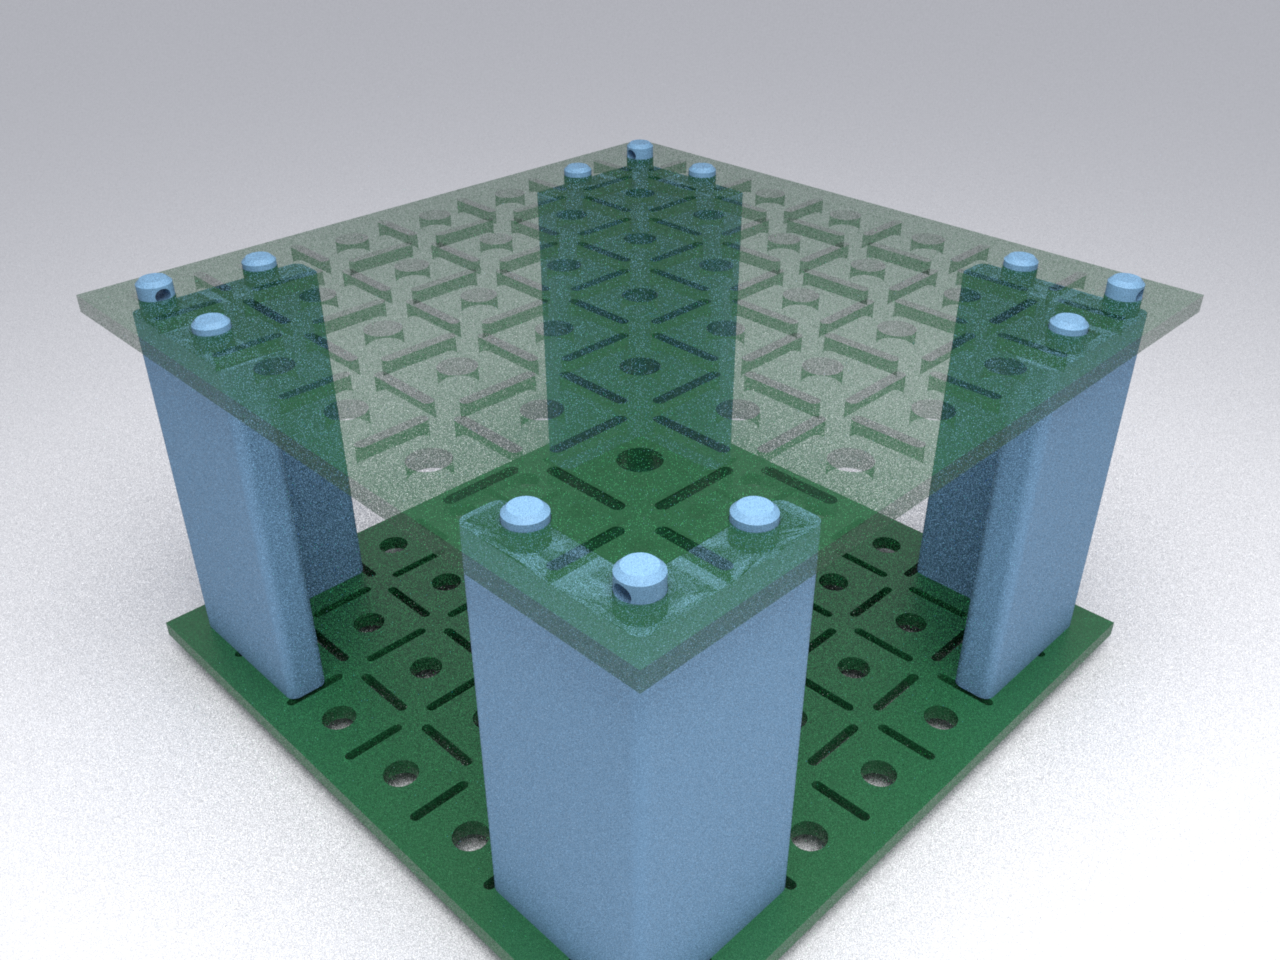
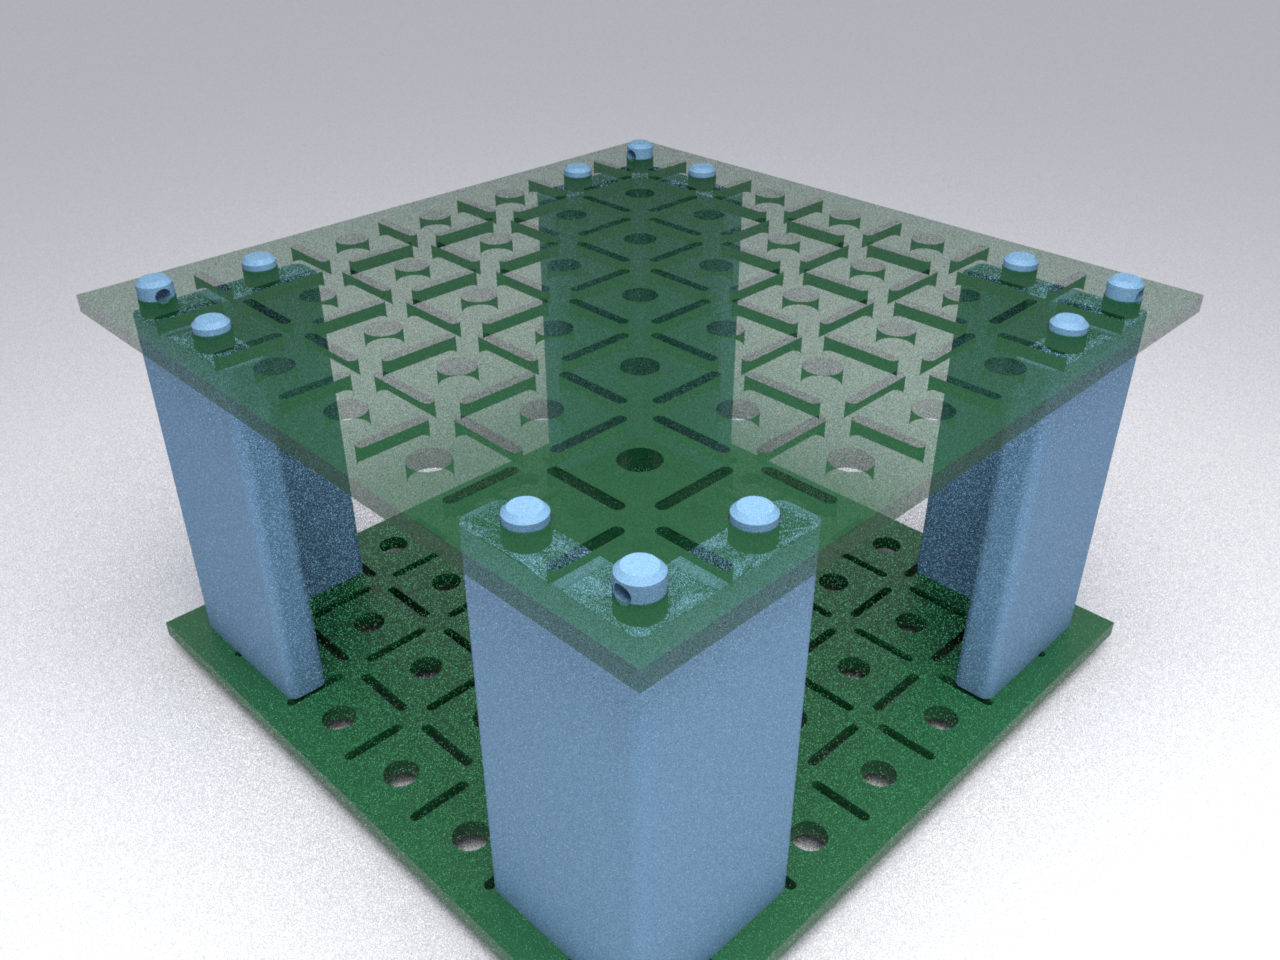
Stop the progress passes from cancelling out the LLVM speedup
Installing LLVM made rendering no faster, and with the default settings
slightly slower. Two causes, measured on the 70x70 assembly at 64 spp,
1280x960:

- The JIT variants pay a fixed cost per kernel launch, which the scalar
  variant does not. Splitting the budget into eight passes for progress
  reporting cost llvm_ad_rgb a full second (8.37 s in one pass, 9.36 s in
  eight) while costing scalar_rgb nothing, which was enough to put LLVM
  behind. 1, 2 and 4 passes all land within 0.15 s of each other, so passes
  are now sized to a 16-sample floor with a cap of 8: 64 spp becomes 4x16
  instead of 8x8, and large budgets still get eight updates.

- max_depth was 8, which nothing in this scene needs. There is no glass or
  metal, so light has nothing left to do after a few diffuse bounces.
  max_depth 5 with rr_depth 3 renders 23% faster (6.57 s against 8.57 s) for
  a 0.02% difference in mean radiance. Depth 3 starts to show (0.8% of the
  energy lost) and depth 2 clearly does (6.7%), so 5 is where it stops being
  free.

End to end at the default 64 samples: 9.2 s scalar, 7.0 s LLVM, against
about 10 s either way before.

Also corrects the README, which sold LLVM as "the fast CPU path" without a
number. It is worth about 25% here, not a multiple: path tracing is
branch-heavy and incoherent, close to the worst case for SIMD.

Checked and rejected as causes: mi.render()'s autodiff wrapper is not the
[…]

Changed region(s): [[0.0938, 0.1562, 0.9062, 0.7188], [0.3438, 0.5312, 0.6562, 0.6562], [0.6562, 0.625, 0.6875, 0.6562]]

diff --git a/render.py b/render.py
@@ -30,8 +30,32 @@ GROUND_GREY = (0.780, 0.780, 0.800)
 ROUGHNESS = {"plate": 0.18, "pillar": 0.42}  # plates have solder-mask sheen, prints are matte
 
 MAX_WIDTH = 1600      # render resolution cap; the overlay is stretched to the viewport
-DEFAULT_SPP = 64      # with the denoiser on, this is already clean; ~10 s at the cap
+DEFAULT_SPP = 64      # with the denoiser on, this is already clean
 MIN_SPP, MAX_SPP = 8, 512
+
+# Path length. Measured on the 70x70 assembly at 64 spp: max_depth 8 took
+# 8.57 s, max_depth 5 took 6.57 s, and the two images differ by 0.02% in mean
+# radiance, which is nothing. There is no glass or metal in this scene, so
+# light has nothing to do after a few diffuse bounces and paying for eight is
+# pure waste. Below 5 it does start to show: depth 3 loses 0.8% of the energy
+# and depth 2 loses 6.7%, visibly flattening the shadowed slots.
+MAX_DEPTH = 5
+RR_DEPTH = 3
+
+# Per-pass launch overhead, so that progress reporting does not cost real
+# time. Also measured: at 64 spp, 1/2/4 passes all land within 0.15 s of each
+# other, but 8 passes costs a full second. The JIT variants pay a fixed cost
+# per kernel launch, so passes have to be big enough to be worth starting.
+MIN_PASS_SPP = 16
+MAX_PASSES = 8
+
+
+def pass_plan(spp):
+    """(chunk_spp, n_passes) for a sample budget: as many progress updates as
+    can be had without the launch overhead becoming measurable."""
+    chunk = max(MIN_PASS_SPP, -(-spp // MAX_PASSES))
+    chunk = min(chunk, spp)
+    return chunk, -(-spp // chunk)
 
 
 def _hint_llvm():
@@ -114,7 +138,7 @@ def _scene_dict(mi, parts, cam, width, height, lo, hi):
 
     scene = {
         "type": "scene",
-        "integrator": {"type": "path", "max_depth": 8},
+        "integrator": {"type": "path", "max_depth": MAX_DEPTH, "rr_depth": RR_DEPTH},
         "sensor": {
             "type": "perspective",
             "fov": float(fov_vertical_deg),

diff --git a/viewer.py b/viewer.py
@@ -148,7 +148,6 @@ def mesh_arrays(manifold):
 
 
 RENDER_OVERLAY = "pretty render"
-RENDER_PASSES = 8   # chunks the sample budget is split into, for progress
 
 # active: an overlay image is up. cam: the camera it was rendered from, so a
 # nudge of the view can invalidate it. armed: the button press that started
@@ -207,7 +206,7 @@ def _render_worker(surfaces, cam, aspect, width, spp):
     """Accumulate `spp` samples in chunks, publishing after each one."""
     try:
         scene, _ = rpt.make_scene(surfaces, cam, aspect, width)
-        chunk_spp = max(4, spp // RENDER_PASSES)
+        chunk_spp, _ = rpt.pass_plan(spp)
         weighted = None
         done = 0
         index = 0

diff --git a/README.md b/README.md
@@ -140,14 +140,14 @@ uv run viewer.py
 ```
 
 Optional, and only if you plan to use the **Render** button: installing LLVM lets mitsuba use its
-vectorised CPU backend instead of the scalar one.
+vectorised CPU backend instead of the scalar one, which is worth about 25% off render time.
 
 ```
 winget install LLVM.LLVM
 ```
 
 Nothing to configure after that, and nothing breaks without it. See
-[On GPUs and LLVM](#on-gpus-and-llvm) for why it is not bundled.
+[On GPUs and LLVM](#on-gpus-and-llvm) for why it is not bundled and why the gain is not larger.
 
 That opens the live parameter viewer: drag sliders, watch the assembly rebuild. The board mesh is
 cached on the parameters that affect it, so pillar-only tweaks stay interactive even at 250 x 250 mm.
@@ -182,8 +182,11 @@ elapsed time, and **Cancel render** stops it between passes. Touching the view c
 The **Samples** slider trades time for noise, and **Denoise** runs
 [Open Image Denoise](https://www.openimagedenoise.org/) over the result once the last pass lands.
 The denoiser costs about half a second and is worth roughly an 8x sample budget, which is why the
-default is only 64 samples: on a 16-core CPU that is about 10 seconds for the image above. Turn
-Denoise off and you need ~512 samples for comparable cleanliness, which takes minutes.
+default is only 64 samples. Turn Denoise off and you need ~512 samples for comparable cleanliness,
+which takes minutes.
+
+At 64 samples and 1280x960, the image above takes about **7 s** with LLVM installed and **9 s**
+without, on a 16-core CPU.
 
 ### On GPUs and LLVM
 
@@ -193,12 +196,23 @@ Short version: on this machine, no. Longer version, since it is not obvious:
   Intel GPU backend at all, so an integrated Radeon or Arc cannot be used, and the OptiX denoiser is
   NVIDIA-only for the same reason. The CPU denoiser above is the substitute, and it is a bigger win
   than the GPU would have been for a render this small.
-- **LLVM.** mitsuba's `llvm_ad_rgb` variant vectorises across SIMD lanes and is the fast CPU path,
-  but Dr.Jit loads LLVM at runtime instead of bundling it, and on Windows finds it only via
-  `DRJIT_LIBLLVM_PATH` or the DLL search path. Without it you silently get `scalar_rgb`, which is
-  what the `jitc_llvm_init()` warning on startup is telling you. Note that this is not the same LLVM
-  that numba uses: llvmlite links LLVM statically into its own DLL and does not expose the C API
-  Dr.Jit needs, so having numba working is no help here.
+- **LLVM.** mitsuba's `llvm_ad_rgb` variant vectorises across SIMD lanes, and Dr.Jit loads LLVM at
+  runtime instead of bundling it, finding it on Windows only via `DRJIT_LIBLLVM_PATH` or the DLL
+  search path. Without it you silently get `scalar_rgb`, which is what the `jitc_llvm_init()`
+  warning on startup is telling you. Note that this is not the same LLVM that numba uses: llvmlite
+  links LLVM statically into its own DLL and does not expose the C API Dr.Jit needs, so having numba
+  working is no help here.
+
+  **Temper your expectations**: measured on this scene, LLVM is worth about 25% end to end (7.0 s
+  against 9.2 s at 64 samples), not the multiple you might expect from "vectorised". Path tracing
+  is branch-heavy and incoherent, which is close to the worst case for SIMD. Two things also had to
+  be fixed before it was worth anything at all, both of which cost more than LLVM gained:
+
+  - The JIT variants pay a fixed cost per kernel launch, so splitting the sample budget into eight
+    passes for progress reporting cost a full second and made LLVM *slower* than scalar. Passes are
+    now sized to a 16-sample floor, which puts the overhead back in the noise.
+  - `max_depth` was 8. With no glass or metal in the scene, light has nothing left to do after a few
+    diffuse bounces, and 5 renders 23% faster for a 0.02% difference in mean radiance.
 
 To get the faster variant, install LLVM:
 
